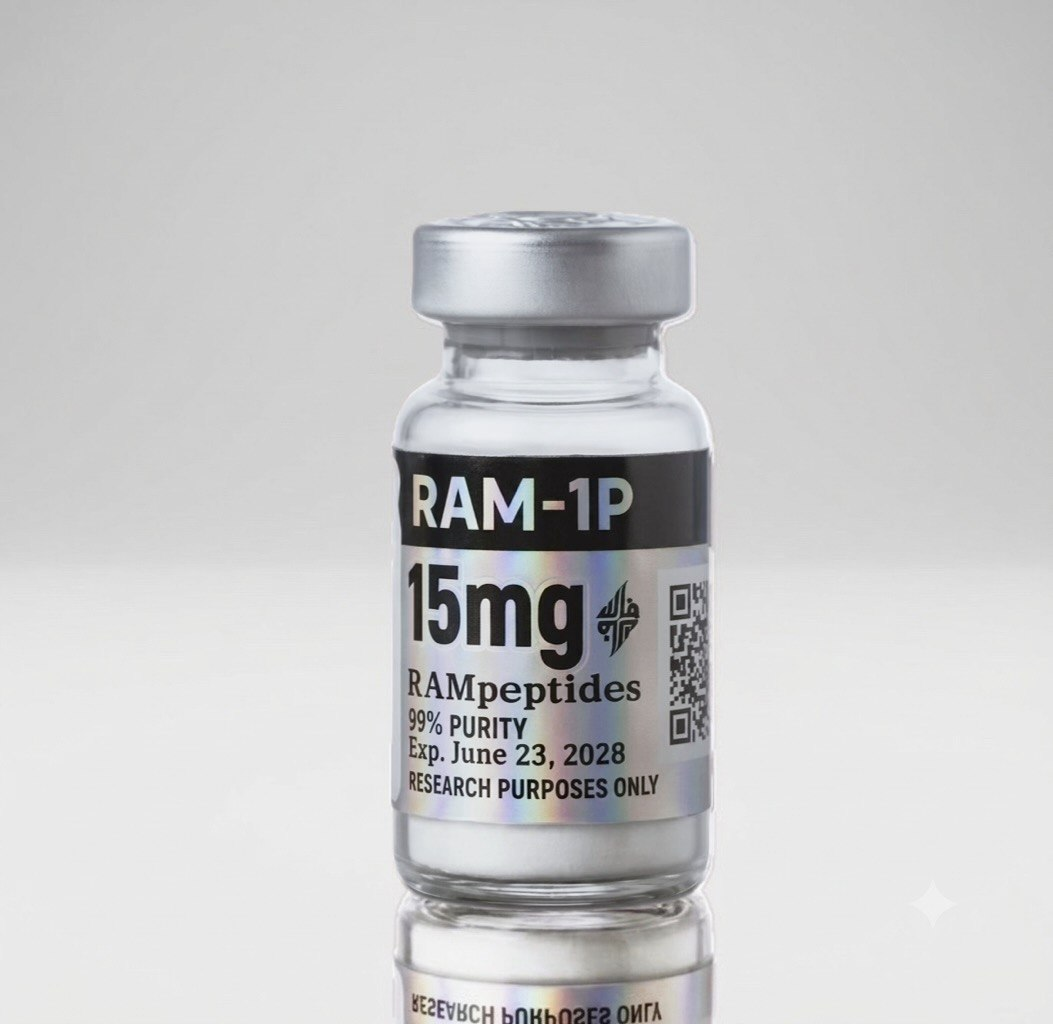
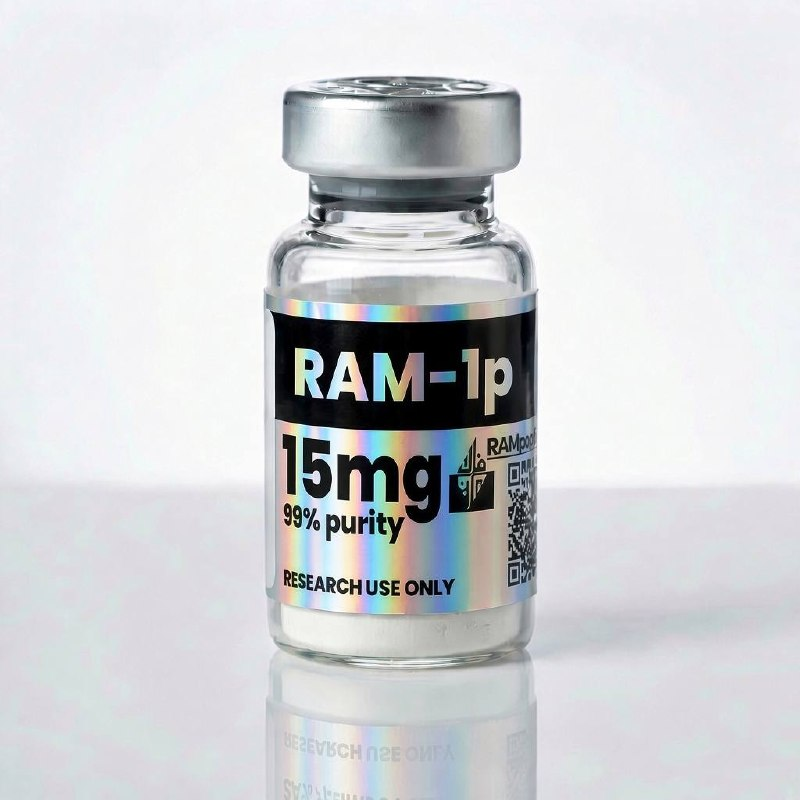
Update RAM-1P 15mg photo and remove exp date from description

diff --git a/src/lib/catalog.ts b/src/lib/catalog.ts
@@ -311,7 +311,7 @@ export const catalog: Product[] = [
     tagline:
       "15mg lyophilized peptide preparation. ≥99% purity, research reference compound.",
     description:
-      "RAM-1P is a 15mg lyophilized peptide preparation supplied in a sealed glass vial. Manufactured at ≥99% purity. Label lot exp. June 23, 2028. Reconstitute with bacteriostatic or sterile water per standard peptide laboratory protocol. Store as a lyophilized powder in a dry, cool environment; reconstituted material should follow standard cold-chain handling. Reference compound supplied for in-vitro and laboratory research applications only — not for human or animal consumption.",
+      "RAM-1P is a 15mg lyophilized peptide preparation supplied in a sealed glass vial. Manufactured at ≥99% purity. Reconstitute with bacteriostatic or sterile water per standard peptide laboratory protocol. Store as a lyophilized powder in a dry, cool environment; reconstituted material should follow standard cold-chain handling. Reference compound supplied for in-vitro and laboratory research applications only — not for human or animal consumption.",
     image: "/products/ram-1p-15mg.jpg",
     specs: {
       purity: "≥99%",
